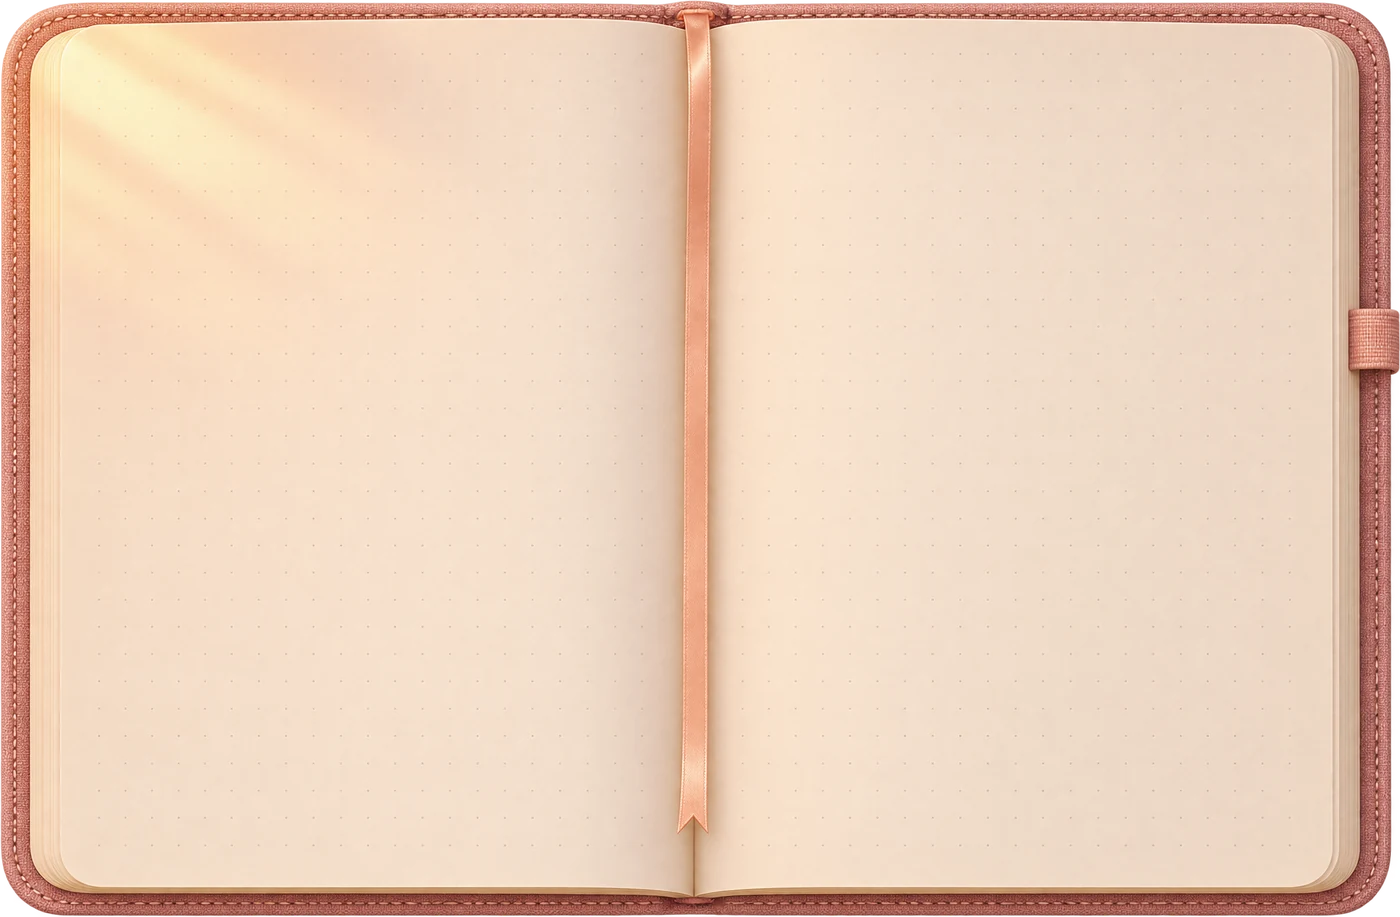
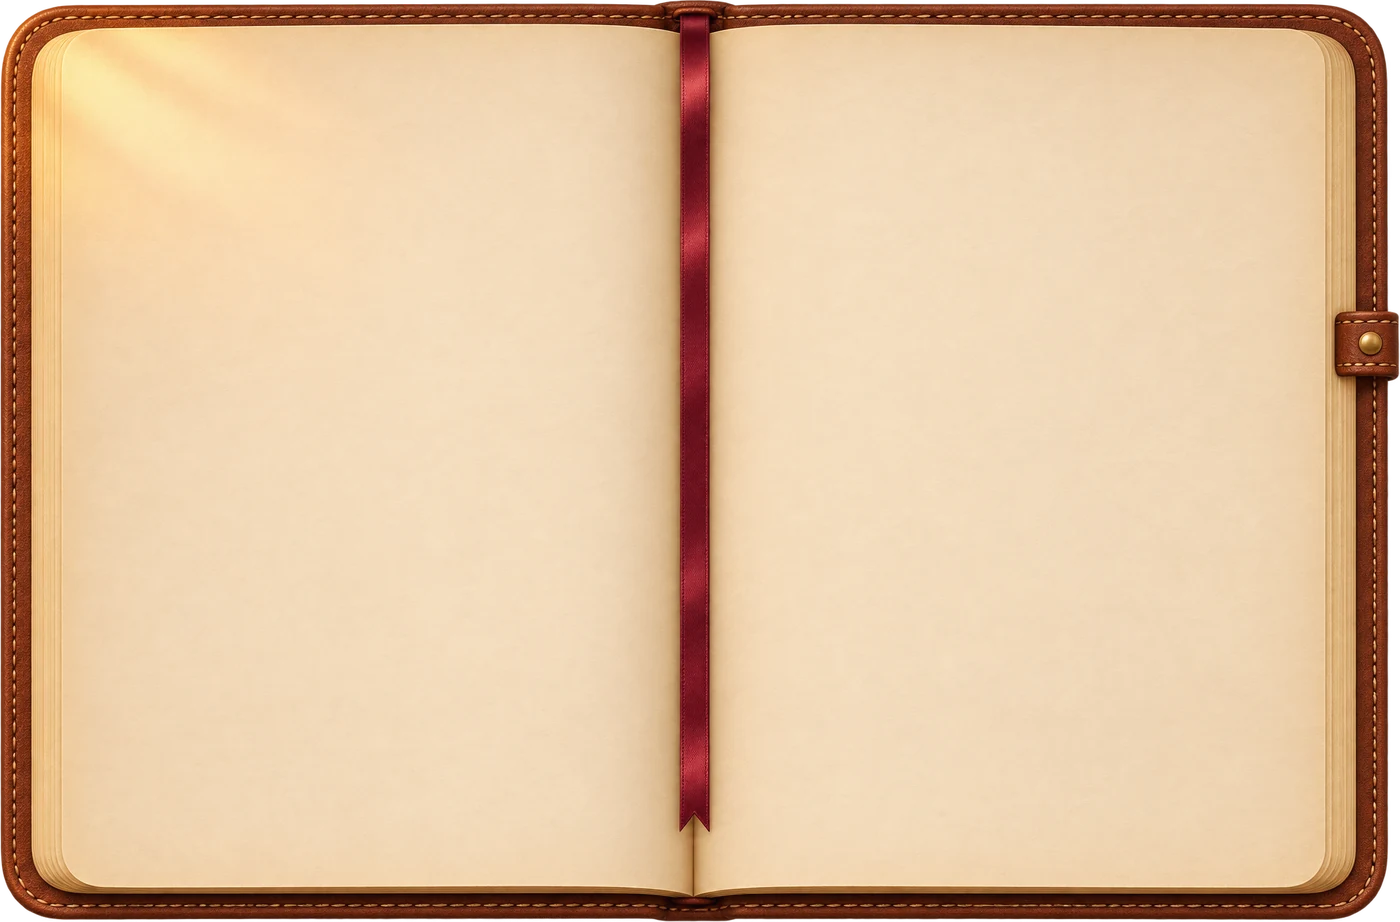
수첩 디자인: 갈색 가죽 + 아이보리 종이 빈티지 양면
Claude-Session: https://claude.ai/code/session_01V1uW48asEmbAkskT1r7mEz

Changed region(s): [[0.0, 0.0, 1.0, 1.0]]

diff --git a/index.html b/index.html
@@ -83,12 +83,12 @@
   #wallet .wn{font-size:20px;margin-top:6px;} #wallet .wn b{font-size:44px;font-weight:400;}
   #wallet .wsub{font-size:14px;opacity:.85;}
   #wallet .x{top:2%;right:2%;}
-  #note .nb{position:relative;width:min(94vw,124vh,1000px);aspect-ratio:1400/917;background:url(ui/spread.webp) center/100% 100% no-repeat;filter:drop-shadow(0 18px 30px rgba(10,5,10,.45));font-family:'Nanum Pen Script',cursive;color:#4a2e24;}
+  #note .nb{position:relative;width:min(94vw,124vh,1000px);aspect-ratio:1400/922;background:url(ui/spread.webp?v=2) center/100% 100% no-repeat;filter:drop-shadow(0 18px 30px rgba(10,5,10,.45));font-family:'Nanum Pen Script',cursive;color:#4a2e24;}
   #note .pg{position:absolute;top:7%;bottom:8%;overflow:auto;} #note .pg.r{top:10%;}
   #note .pg.l{left:6%;width:39%;} #note .pg.r{left:55%;width:37%;}
   #note .tabs{position:absolute;top:2.5%;left:55%;display:flex;gap:6px;z-index:2;}
-  #note .tabs button{border:0;border-radius:999px;padding:1px 10px;font:clamp(14px,1.9vw,18px) 'Nanum Pen Script',cursive;background:rgba(200,120,100,.18);color:#8a4f44;}
-  #note .tabs button.on{background:#d98c78;color:#fff;}
+  #note .tabs button{border:0;border-radius:999px;padding:1px 10px;font:clamp(14px,1.9vw,18px) 'Nanum Pen Script',cursive;background:rgba(120,60,40,.12);color:#7a3e2e;}
+  #note .tabs button.on{background:#8a3a34;color:#fff4e6;}
   #note h3{margin:0;font-family:'Nanum Brush Script',cursive;font-size:clamp(18px,3vw,30px);font-weight:400;color:#4a2a1e;display:flex;align-items:center;justify-content:space-between;}
   #note h3 button{border:0;background:none;font-size:clamp(16px,2.4vw,22px);color:#b07060;padding:0 6px;}
   #note .sub{font-size:clamp(13px,1.8vw,18px);color:#a07a6c;margin:2px 0 8px;}
@@ -99,7 +99,7 @@
   #note .cal .d.today{color:#c2563f;font-weight:700;}
   #note .cal .d img{position:absolute;left:50%;top:50%;width:115%;height:115%;transform:translate(-50%,-50%) rotate(var(--r));opacity:.85;mix-blend-mode:multiply;pointer-events:none;}
   #note ul{list-style:none;margin:8px 0 0;padding:0;font-size:clamp(14px,2.1vw,21px);line-height:1.6;}
-  #note li{position:relative;padding-left:16px;} #note li:before{content:'';position:absolute;left:2px;top:.8em;width:6px;height:6px;border-radius:50%;background:#e0a08a;}
+  #note li{position:relative;padding-left:16px;} #note li:before{content:'';position:absolute;left:2px;top:.8em;width:6px;height:6px;border-radius:50%;background:#a0533f;}
   #note .empty{color:#9a7462;font-size:clamp(14px,2vw,19px);margin-top:8px;line-height:1.5;}
   #note .mini{display:flex;align-items:center;gap:6px;margin-top:10px;font-size:clamp(11px,1.4vw,13px);color:#a07a6c;}
   #note .mini img{width:40px;height:40px;mix-blend-mode:multiply;opacity:.85;transform:rotate(-10deg);}
